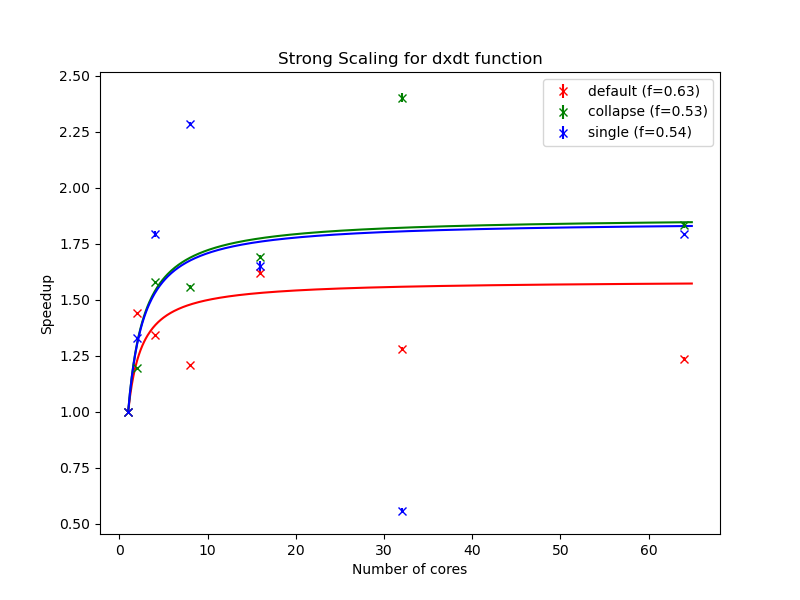
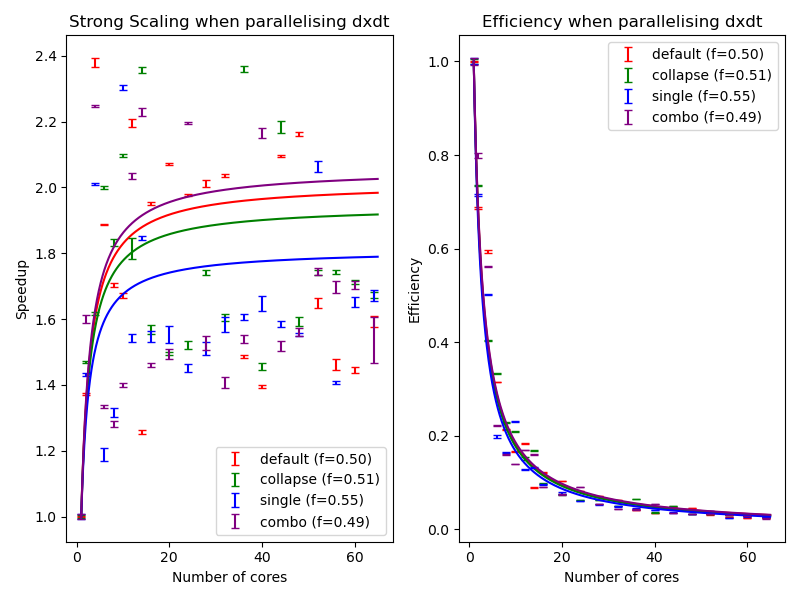
processed data

diff --git a/coursework/part1/part1.py b/coursework/part1/part1.py
@@ -6,24 +6,39 @@ from scipy import optimize
 def speedup(p,f):
     return 1/(f + (1-f)/p)
 
+def efficiency(p,f):
+    return speedup(p,f)/p
 
-funcs = ["init","step","norm","dxdt"]
+
+funcs = ["init","step","norm","dxdt",""]
 variants = {}
 variants["init"]= ["default","collapse","manual"] # no default
 variants["step"]= ["default","collapse","manual"]
 variants["norm"]= ["default","collapse","manual"] #no manual
-variants["dxdt"]= ["default","collapse","single"] # none yet
-colors = ["red","green","blue"]
+variants["dxdt"]= ["default","collapse","single","combo"] # none yet
+variants[""] = [""]
+colors = ["red","green","blue","purple"]
 for func in funcs:
-    fig, ax = plt.subplots(1,1,figsize =(8,6))
-    ax.set_xlabel("Number of cores")
-    ax.set_ylabel("Speedup")
-    ax.set_title(f"Strong Scaling for {func} function")
+    fig, axs = plt.subplots(1,2,figsize =(8,6))
+    axs[0].set_xlabel("Number of cores")
+    axs[0].set_ylabel("Speedup")
+    axs[1].set_xlabel("Number of cores")
+    axs[1].set_ylabel("Efficiency")
+    if (func != ""):
+        axs[0].set_title(f"Strong Scaling when parallelising {func}")
+        axs[1].set_title(f"Efficiency when parallelising {func}")
+    else:
+        axs[0].set_title("Strong Scaling Speedup for overall paralellised program")
+        axs[1].set_title("Strong scaling Efficiency for overall paralellised program")
     data  = {}
     for i,variant in enumerate(variants[func]):
-        filename = f"newData/part1_{func}_{variant}_strong_scaling.dat"
+        if (func != ""):
+            filename = f"newData/part1_{func}_{variant}_strong_scaling.dat"
+        else:
+            filename = f"newData/part1_strong_scaling.dat"
         data[variant] = pd.read_csv(filename,delimiter=",")
         data[variant]["cores"] = data[variant]["cores"].astype(int)
+        data[variant] = data[variant][data[variant]["cores"]<=64]
         data[variant]["time_seconds"] = pd.to_numeric(data[variant]["time_seconds"], errors="coerce")
         grouped = data[variant].groupby("cores")["time_seconds"]
 
@@ -42,12 +57,19 @@ for func in funcs:
         mean_data["speedup"] = single_core_time / mean_data["mean"]
         mean_data["speedup_error"] = (single_core_time / mean_data["mean"]**2) * mean_data["stderr"]
         mean_data["stderr"] = mean_data["std"] / np.sqrt(mean_data["count"])
+        mean_data["efficiency"] = mean_data["speedup"] / mean_data["cores"]
+        mean_data["efficiency_error"] = mean_data["speedup_error"] / mean_data["cores"]
+        mean_data.to_csv(f"processedData/part1_{func}_{variant}_strong_scaling_processed.csv",index=False)
         xs = np.arange(1, max(mean_data["cores"])+1,0.1)
         params,covar = optimize.curve_fit(speedup,mean_data["cores"],mean_data["speedup"],p0=[0.1],sigma =mean_data["speedup_error"],absolute_sigma=True,bounds=(0,1))
         f = params[0]
-        ax.plot(xs,speedup(xs,f), color=colors[i])
-        ax.errorbar(mean_data["cores"],mean_data["speedup"],yerr=mean_data["speedup_error"],marker='x',label = variant+f" (f={f:.2f})",color=colors[i],linestyle='')
-    ax.legend()
+        axs[0].plot(xs,speedup(xs,f), color=colors[i])
+        axs[0].errorbar(mean_data["cores"],mean_data["speedup"],yerr=mean_data["speedup_error"],marker='',capsize=3,label = variant+f" (f={f:.2f})",color=colors[i],linestyle='')
+        axs[1].plot(xs,efficiency(xs,f), color=colors[i])
+        axs[1].errorbar(mean_data["cores"],mean_data["efficiency"],yerr=mean_data["efficiency_error"],marker='',capsize=3,label = variant+f" (f={f:.2f})",color=colors[i],linestyle='')
+    axs[0].legend()
+    axs[1].legend()
+    fig.tight_layout()
     plt.savefig(f"plots/part1_{func}_strong_scaling.png")
     plt.show()
     

diff --git a/coursework/part1/src/part1_init_collapse.c b/coursework/part1/src/part1_init_collapse.c
@@ -23,7 +23,6 @@ void init(double *u, double *v) {
       v[idx] = vlo + (vhi - vlo) * 0.5 * (1.0 + tanh((j - N / 2) / 16.0)); //smooth gradient in horizontal direction
     }
   }
-  
 }
 
 void dxdt(double *du, double *dv, const double *u, const double *v) {
